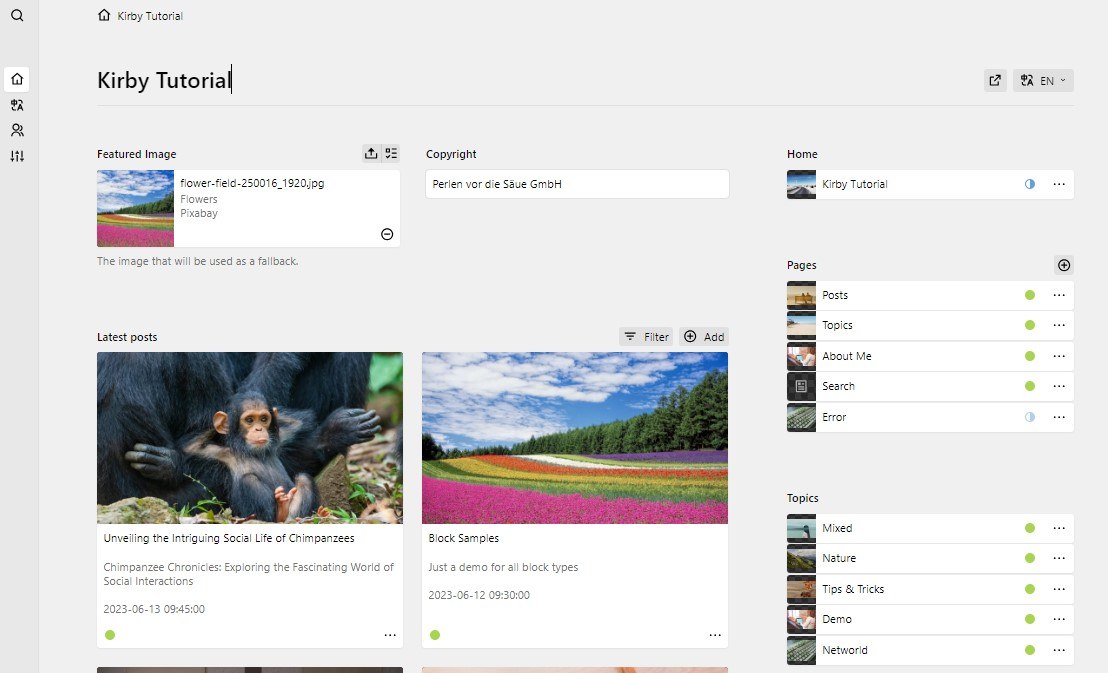
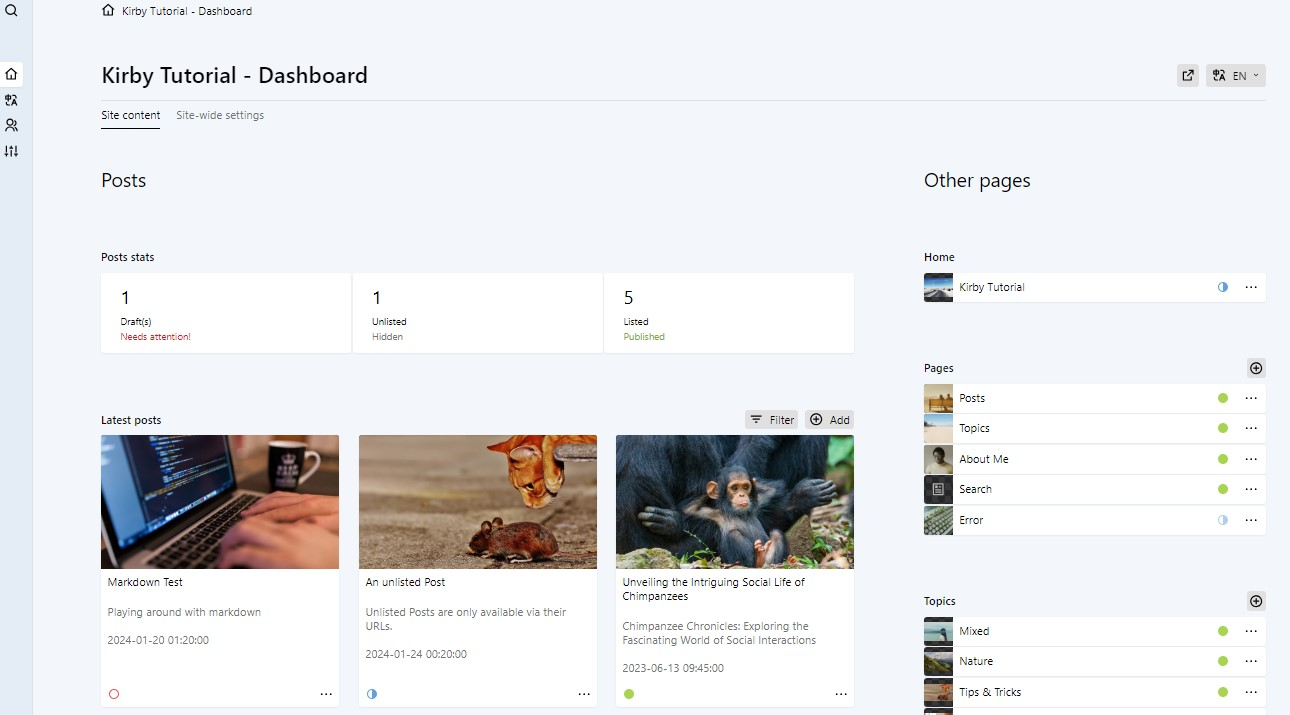
Read me

diff --git a/README.md b/README.md
@@ -13,6 +13,8 @@ Trying to make it easier for devs to switch between Craft and Kirby.
 * Reorganized directory structure
 * Find custom config and translations in familiar places
 * Autocomplete in PhpStorm, including field names (needs manual config, so may be worth it or not...)
+* Demo field types that have no direct equivalent in Craft core (Object, Structure, Layout).
+* Make use of .env file for configuration
 
 ## Installation
 
@@ -37,6 +39,19 @@ Untested...
 * Run `cp .env.example .env`
 * Run `npm install && npm run build`
 
+## Environment Variables
+
+Just one in `.env` for now:
+
+`ENVIRONMENT=dev` 
+
+* enables debugging and disables twig template caching. A bit slower.
+
+
+`ENVIRONMENT=production` 
+
+* disables debugging and enables twig template caching. Faster, but you have to clear the `storage/cache/twig` folder after each update of twig templates.
+
 ## Screenshots
 
 ### Frontend
@@ -48,6 +63,7 @@ Untested...
 ### Backend
 
 ![Screenshot Dashboard](/screenshot-dashboard.jpg)
+![Screenshot Dashboard](/screenshot-dashboard2.jpg)
 
 ![Screenshot Posts](/screenshot-posts-backend.jpg)
 
